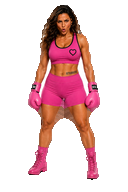
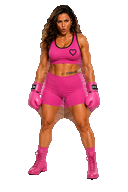
Clear Default Female ooh armpit white wedges

diff --git a/frontend/scripts/bake_default_female_ring_poses.py b/frontend/scripts/bake_default_female_ring_poses.py
@@ -101,6 +101,31 @@ def head_crown_mask(body: np.ndarray) -> np.ndarray:
     return mask
 
 
+def armpit_clear_mask_ooh(body: np.ndarray) -> np.ndarray:
+    """Wider wedges for arms-down ooh pose — clears white gaps beside the torso."""
+    solid = body[:, :, 3] > 40
+    if not solid.any():
+        return np.zeros(solid.shape, dtype=bool)
+    ys, xs = np.where(solid)
+    y0, y1, x0, x1 = int(ys.min()), int(ys.max()), int(xs.min()), int(xs.max())
+    fig_h, fig_w = y1 - y0, x1 - x0
+
+    mask = np.zeros(solid.shape, dtype=bool)
+    y_top = y0 + int(0.10 * fig_h)
+    y_bot = y0 + int(0.52 * fig_h)
+    for y in range(y_top, y_bot):
+        t = (y - y_top) / max(1, y_bot - y_top - 1)
+        lx0 = x0 + int(fig_w * (0.04 + 0.10 * t))
+        lx1 = x0 + int(fig_w * (0.34 - 0.02 * t))
+        mask[y, lx0:lx1] = True
+        rx1 = x1 - int(fig_w * (0.04 + 0.10 * t))
+        rx0 = x1 - int(fig_w * (0.34 - 0.02 * t))
+        mask[y, rx0:rx1] = True
+
+    hull = ndimage.binary_fill_holes(ndimage.binary_closing(solid, iterations=3))
+    return mask & hull
+
+
 def armpit_clear_mask_idle(body: np.ndarray) -> np.ndarray:
     """Narrow wedges in the gaps between inner arms and torso (guard pose)."""
     solid = body[:, :, 3] > 40
@@ -140,6 +165,18 @@ def punch_idle_armpit_wedges(arr: np.ndarray) -> np.ndarray:
     return out
 
 
+def punch_ooh_armpit_wedges(arr: np.ndarray) -> np.ndarray:
+    """Clear pale studio fill between inner arms and torso on the ooh pose."""
+    out = arr.copy()
+    rgb = out[:, :, :3].astype(np.int16)
+    mx = rgb.max(axis=2)
+    chroma = mx - rgb.min(axis=2)
+    wedge = armpit_clear_mask_ooh(out)
+    pale = (out[:, :, 3] > 40) & (mx > 160) & (chroma < 55)
+    out[wedge & pale, 3] = 0
+    return out
+
+
 def preprocess_idle(arr: np.ndarray) -> np.ndarray:
     out = peel_exterior_fringe(arr, pale=True)
     out = peel_dark_hair_matte(out)
@@ -147,12 +184,12 @@ def preprocess_idle(arr: np.ndarray) -> np.ndarray:
 
 
 def assert_pose_solid(packed: Image.Image, pose: str) -> None:
-    if pose != 'idle':
+    if pose not in ('idle', 'ooh'):
         assert_solid(packed, pose)
         return
     arr = np.asarray(packed)
-    allow = armpit_clear_mask_idle(arr)
-    allow = ndimage.binary_dilation(allow, iterations=5)
+    allow = armpit_clear_mask_idle(arr) if pose == 'idle' else armpit_clear_mask_ooh(arr)
+    allow = ndimage.binary_dilation(allow, iterations=5 if pose == 'idle' else 2)
     alpha = arr[:, :, 3]
     opaque = alpha == 255
     holes_mask = ndimage.binary_fill_holes(opaque) & ~opaque
@@ -213,6 +250,13 @@ def bake_idle(path: Path) -> Image.Image:
     return Image.fromarray(finalize_idle(punched))
 
 
+def bake_ooh(path: Path) -> Image.Image:
+    keyed = remove_bg(Image.open(path))
+    packed = seal_silhouette(pack(seal_silhouette(keyed)))
+    punched = punch_ooh_armpit_wedges(np.asarray(packed))
+    return Image.fromarray(punched)
+
+
 def main() -> None:
     OUT.mkdir(parents=True, exist_ok=True)
     FACES.mkdir(parents=True, exist_ok=True)
@@ -222,6 +266,8 @@ def main() -> None:
             raise SystemExit(f'missing source for {pose}: {path}')
         if pose == 'idle':
             packed = bake_idle(path)
+        elif pose == 'ooh':
+            packed = bake_ooh(path)
         else:
             keyed = remove_bg(Image.open(path))
             sealed = seal_silhouette(keyed)
